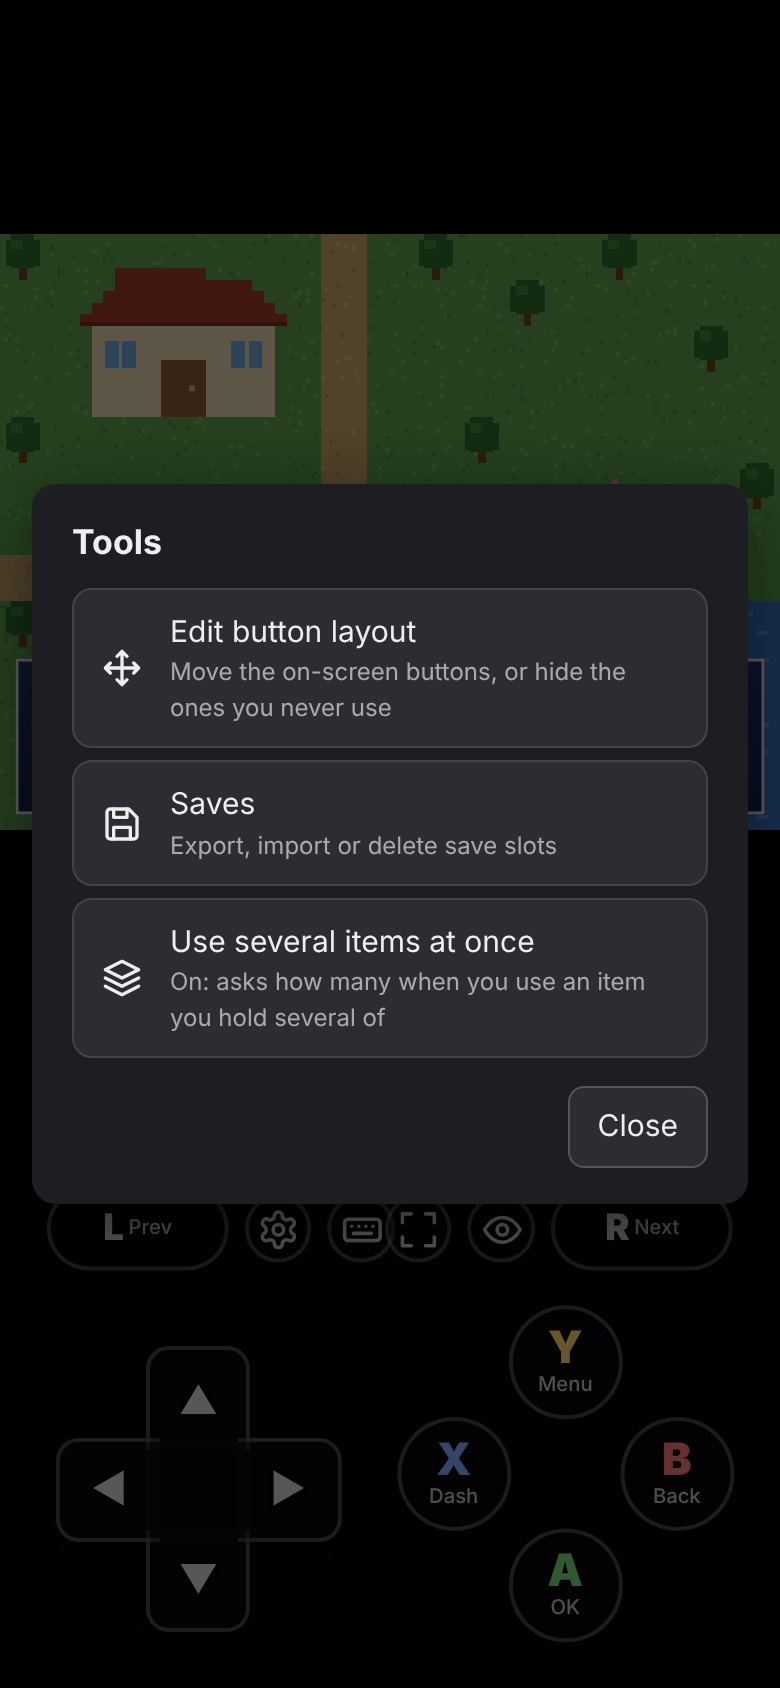
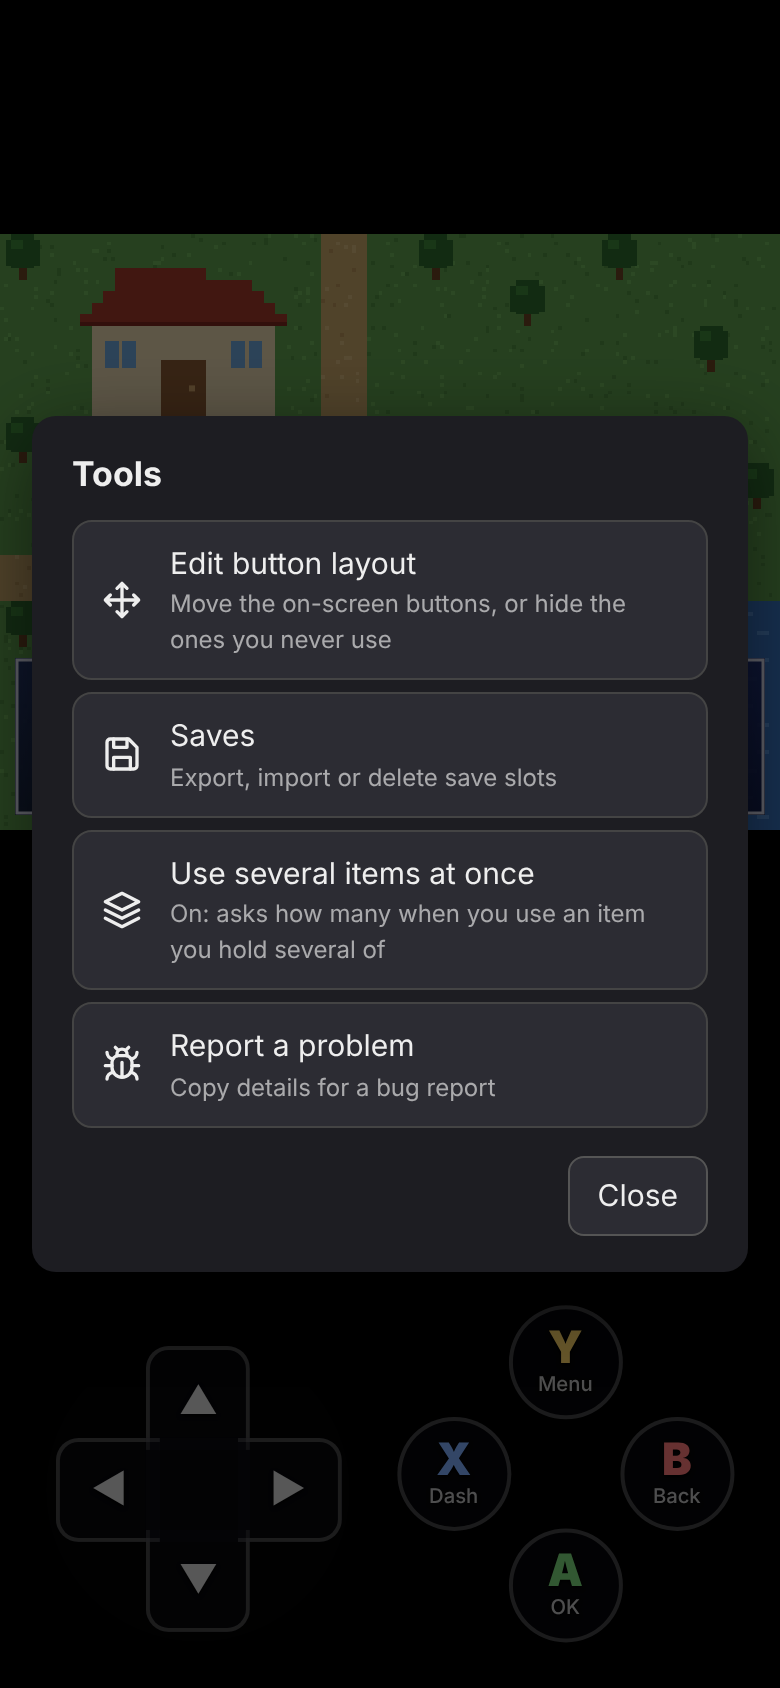
feat(runtime): add an in-game problem report with audio diagnostics (#27)

diff --git a/runtime/RWK_Report.js b/runtime/RWK_Report.js
@@ -1,0 +1,216 @@
+//=============================================================================
+// RWK_Report.js - rpgmaker-web-toolkit
+// Required Notice: Copyright 2026 Trương Tuấn Anh (https://github.com/Kokoroou)
+// License: PolyForm Noncommercial 1.0.0 with the Game Creators permission,
+// https://github.com/Kokoroou/rpgmaker-web-toolkit/blob/main/LICENSE
+// Problem report: keeps the latest errors and the audio files that failed to
+// load, and lets players copy a report (browser, audio state, errors with the
+// plugin they most likely came from) from ⚙ Tools or the engine's error screen.
+//=============================================================================
+/*:
+ * @target MZ MV
+ * @plugindesc [rpgmaker-web-toolkit] Problem report and audio diagnostics. Requires RWK_Core.
+ * @author rpgmaker-web-toolkit
+ */
+
+(() => {
+  "use strict";
+
+  const RWK = window.RWK;
+  if (!RWK) return;
+
+  const MAX_ERRORS = 10;
+  const MAX_BUFFERS = 100;
+  const MAX_STACK_LINES = 6;
+
+  //---------------------------------------------------------------------------
+  // Errors: uncaught ones, and the ones the engine catches to show its error
+  // screen (SceneManager.catchException never reaches window.onerror).
+  //---------------------------------------------------------------------------
+
+  const errors = [];
+  let toldPlayer = false;
+
+  function record(error, source) {
+    // MZ throws ["LoadError", url, retry] for files that fail to load.
+    if (Array.isArray(error) && error[0] === "LoadError") error = { name: "LoadError", message: String(error[1]) };
+    const name = (error && error.name) || "Error";
+    const message = error && error.message !== undefined ? String(error.message) : String(error);
+    const last = errors[errors.length - 1];
+    // The same error often arrives twice (engine + window handler).
+    if (last && last.message === message && Date.now() - last.time < 1000) {
+      if (!last.stack && error && error.stack) last.stack = String(error.stack);
+      return;
+    }
+    errors.push({ time: Date.now(), source, name, message, stack: error && error.stack ? String(error.stack) : "" });
+    if (errors.length > MAX_ERRORS) errors.shift();
+  }
+
+  window.addEventListener("error", (e) => {
+    // Failed <img>/<script> loads bubble here with no message; the engine reports those itself.
+    if (!e.message && !e.error) return;
+    record(e.error || { name: "Error", message: e.message, stack: e.filename ? `at ${e.filename}:${e.lineno}:${e.colno}` : "" }, "window");
+    if (!toldPlayer) {
+      toldPlayer = true;
+      RWK.toast("Something went wrong. ⚙ Tools → Report a problem copies the details.", "warn", 6000);
+    }
+  });
+  window.addEventListener("unhandledrejection", (e) => record(e.reason, "promise"));
+
+  const _catchException = SceneManager.catchException;
+  SceneManager.catchException = function (e) {
+    record(e, "engine");
+    return _catchException.apply(this, arguments);
+  };
+
+  // Which plugin an error most likely came from: the first plugin file in its stack.
+  function guessPlugin(stack) {
+    const m = /js\/plugins\/([^/?#:)]+)\.js/.exec(stack || "");
+    if (!m) return "";
+    const name = decodeURIComponent(m[1]);
+    return name.startsWith("RWK_") ? `${name} (rpgmaker-web-toolkit)` : name;
+  }
+
+  //---------------------------------------------------------------------------
+  // Audio: which format the engine asks for, whether WebAudio is unlocked,
+  // and which files failed to load (WebAudio#isError in both engines).
+  //---------------------------------------------------------------------------
+
+  const buffers = [];
+  const _createBuffer = AudioManager.createBuffer;
+  AudioManager.createBuffer = function (folder, name) {
+    const buffer = _createBuffer.apply(this, arguments);
+    if (buffer) {
+      buffers.push({ buffer, file: `audio/${folder}/${name}` });
+      if (buffers.length > MAX_BUFFERS) buffers.shift();
+    }
+    return buffer;
+  };
+
+  function audioLines() {
+    const lines = [];
+    const call = (fn) => {
+      try {
+        return fn();
+      } catch (e) {
+        return "?";
+      }
+    };
+    lines.push(`  Format: ${call(() => AudioManager.audioFileExt())}`);
+    // MV checks the browser; MZ decodes Ogg itself.
+    if (typeof WebAudio.canPlayOgg === "function") {
+      lines.push(`  Browser plays Ogg: ${call(() => (WebAudio.canPlayOgg() ? "yes" : "no"))}, ` +
+        `M4A: ${call(() => (WebAudio.canPlayM4a() ? "yes" : "no"))}`);
+    }
+    const context = WebAudio._context;
+    lines.push(`  WebAudio: ${context ? context.state : "not available"}`);
+    const failed = [...new Set(buffers.filter((b) => call(() => b.buffer.isError()) === true).map((b) => b.file))];
+    lines.push(`  Failed to load: ${failed.length ? "" : "none"}`);
+    for (const file of failed.slice(-10)) lines.push(`    ${file}`);
+    return lines;
+  }
+
+  //---------------------------------------------------------------------------
+  // The report. No email or save data: players paste it in public places.
+  //---------------------------------------------------------------------------
+
+  function report() {
+    const config = RWK.config;
+    const lines = [
+      "rpgmaker-web-toolkit problem report",
+      `Toolkit: ${config.version || "?"} · Engine: ${RWK.engine} · Game: ${config.gameId || "?"}`,
+      `Page: ${location.origin}${location.pathname}`,
+      `Browser: ${navigator.userAgent}`,
+      `Screen: ${window.innerWidth}x${window.innerHeight} @${window.devicePixelRatio || 1}x`,
+      `Time: ${new Date().toISOString()}`,
+      "",
+      "Audio",
+      ...audioLines(),
+      "",
+      `Errors (${errors.length ? "latest last" : "none"})`,
+    ];
+    for (const e of errors) {
+      lines.push(`  [${new Date(e.time).toISOString().slice(11, 19)}] ${e.name}: ${e.message} (${e.source})`);
+      const plugin = guessPlugin(e.stack);
+      if (plugin) lines.push(`    Plugin: ${plugin}`);
+      const stack = e.stack.split("\n").map((l) => l.trim()).filter((l) => l.startsWith("at ") || l.includes("@"));
+      for (const l of stack.slice(0, MAX_STACK_LINES)) lines.push(`    ${l}`);
+    }
+    return lines.join("\n");
+  }
+
+  async function copy(text, textarea) {
+    try {
+      await navigator.clipboard.writeText(text);
+      RWK.toast("Report copied.");
+    } catch (e) {
+      // No clipboard access (an old browser or an insecure page): select it for a manual copy.
+      textarea.focus();
+      textarea.select();
+      RWK.toast("Select all and copy the text.", "warn");
+    }
+  }
+
+  const reportStyle = document.createElement("style");
+  reportStyle.textContent = `
+.rwk-report{width:100%;height:min(45vh,320px);box-sizing:border-box;margin:0 0 14px;padding:8px;
+  border-radius:8px;border:1px solid #444;background:#111;color:#ddd;font:11px/1.4 ui-monospace,monospace;resize:none}
+.rwk-error-copy{margin-top:10px;font:13px system-ui,sans-serif;padding:6px 12px;border-radius:8px;
+  border:1px solid #888;background:#2c2c33;color:#eee;cursor:pointer}
+`;
+  document.head.appendChild(reportStyle);
+
+  function openReport() {
+    const text = report();
+    const overlay = document.createElement("div");
+    overlay.className = "rwk-modal";
+    const box = document.createElement("div");
+    box.className = "rwk-modal-box";
+    const h = document.createElement("h2");
+    h.textContent = "Report a problem";
+    const p = document.createElement("p");
+    p.textContent = "Copy this and send it with what you were doing. It has no email or save data.";
+    const textarea = document.createElement("textarea");
+    textarea.className = "rwk-report";
+    textarea.readOnly = true;
+    textarea.value = text;
+    const actions = document.createElement("div");
+    actions.className = "rwk-modal-actions";
+    const copyBtn = document.createElement("button");
+    copyBtn.className = "primary";
+    copyBtn.textContent = "Copy report";
+    copyBtn.addEventListener("click", () => copy(text, textarea));
+    const closeBtn = document.createElement("button");
+    closeBtn.textContent = "Close";
+    closeBtn.addEventListener("click", () => overlay.remove());
+    actions.append(closeBtn, copyBtn);
+    box.append(h, p, textarea, actions);
+    overlay.appendChild(box);
+    overlay.addEventListener("click", (e) => e.target === overlay && overlay.remove());
+    RWK.shield(overlay);
+    document.body.appendChild(overlay);
+  }
+
+  // The engine's error screen gets a copy button next to RWK_Core's note.
+  const _printError = Graphics.printError;
+  Graphics.printError = function () {
+    _printError.apply(this, arguments);
+    const printer = this._errorPrinter;
+    if (!printer || printer.querySelector(".rwk-error-copy")) return;
+    const btn = document.createElement("button");
+    btn.className = "rwk-error-copy";
+    btn.textContent = "Report a problem";
+    btn.addEventListener("click", openReport);
+    RWK.shield(btn);
+    printer.appendChild(btn);
+  };
+
+  RWK.tools.add({
+    icon: RWK.icons.bug,
+    label: "Report a problem",
+    detail: () => (errors.length ? `${errors.length} error(s) so far` : "Copy details for a bug report"),
+    onSelect: openReport,
+  });
+
+  RWK.report = { text: report, open: openReport };
+})();

diff --git a/test/cli.test.js b/test/cli.test.js
@@ -215,3 +215,16 @@ test("MV phone media: Ogg / WebM without an .m4a / .mp4 twin", () => {
   assert.deepEqual(runtimeConfig("MV").media, { oggOnly: true, webmOnly: false });
   assert.equal(runtimeConfig("MZ").media, undefined, "MZ decodes Ogg itself");
 });
+
+test("web build: runtime plugins and the toolkit version for the problem report", () => {
+  const root = tmp();
+  fs.mkdirSync(path.join(root, "js"));
+  fs.writeFileSync(path.join(root, "js", "plugins.js"), "var $plugins = [];\n");
+  fs.writeFileSync(path.join(root, "index.html"), "<html><head></head><body></body></html>");
+  const out = generatedFiles({ root, engine: "MZ", title: "G" }, { slug: "g", sync: {} });
+  assert.ok(out.has("js/plugins/RWK_Report.js"));
+  const js = out.get("js/plugins.js");
+  const core = JSON.parse(/\$plugins\.push\((\{"name":"RWK_Core".*\})\);/.exec(js)[1]);
+  const pkg = JSON.parse(fs.readFileSync(new URL("../package.json", import.meta.url), "utf8"));
+  assert.equal(JSON.parse(core.parameters.config).version, pkg.version);
+});

diff --git a/cli/lib/stage.js b/cli/lib/stage.js
@@ -9,7 +9,10 @@ import { TOOLKIT_ROOT } from "./config.js";
 import { mobileOnlyMissing } from "./game.js";
 import { isIndexable } from "./policy.js";
 
-export const RUNTIME_PLUGINS = ["RWK_Core", "RWK_SaveSync", "RWK_MobileControls", "RWK_SaveTools", "RWK_ItemBatch"];
+export const RUNTIME_PLUGINS = ["RWK_Core", "RWK_SaveSync", "RWK_MobileControls", "RWK_SaveTools", "RWK_ItemBatch", "RWK_Report"];
+
+// Shown in the in-game problem report (RWK_Report).
+const TOOLKIT_VERSION = JSON.parse(fs.readFileSync(path.join(TOOLKIT_ROOT, "package.json"), "utf8")).version;
 
 // files: from collectFiles(); generated: Map<rel, string|Buffer>
 // -> { linked, copied, unchanged, removed }
@@ -79,6 +82,7 @@ function statOrNull(p) {
 export function generatedFiles(game, gameConfig, files = []) {
   const out = new Map();
   const runtimeConfig = {
+    version: TOOLKIT_VERSION,
     gameId: gameConfig.slug,
     engine: game.engine,
     sync: { enabled: !!(gameConfig.sync && gameConfig.sync.enabled) },

diff --git a/site/screenshots/simulator.html b/site/screenshots/simulator.html
@@ -94,7 +94,9 @@
     isDatabaseLoaded: () => true,
     createGameObjects() {},
   };
-  window.SceneManager = { _scene: new Scene_Map() };
+  window.SceneManager = { _scene: new Scene_Map(), catchException() {} };
+  window.AudioManager = { createBuffer() {}, audioFileExt: () => ".ogg" };
+  window.WebAudio = { _context: null };
   window.StorageManager = {
     isLocalMode: () => false,
     forageKey: (name) => "rmmzsave.demo." + name,
@@ -130,6 +132,7 @@
 <script src="../../runtime/RWK_MobileControls.js"></script>
 <script src="../../runtime/RWK_SaveTools.js"></script>
 <script src="../../runtime/RWK_ItemBatch.js"></script>
+<script src="../../runtime/RWK_Report.js"></script>
 <script>
   //--- The "game": a hand-drawn map or item menu on the canvas
   const canvas = document.createElement("canvas");

diff --git a/runtime/RWK_Core.js b/runtime/RWK_Core.js
@@ -271,6 +271,11 @@
     reset: svg('<path d="M3 12a9 9 0 1 0 3-6.7L3 8"/><path d="M3 3v5h5"/>'),
     save: svg('<path d="M5 3h11l5 5v11a2 2 0 0 1-2 2H5a2 2 0 0 1-2-2V5a2 2 0 0 1 2-2z"/><path d="M7 3v5h8V3M7 21v-7h10v7"/>'),
     items: svg('<path d="M12 2l10 5-10 5L2 7z"/><path d="M2 12l10 5 10-5M2 17l10 5 10-5"/>'),
+    bug: svg(
+      '<path d="M8 2l1.9 1.9M14.1 3.9L16 2M9 7.1v-1a3 3 0 1 1 6 0v1"/>' +
+        '<path d="M12 20c-3.3 0-6-2.7-6-6v-3a4 4 0 0 1 4-4h4a4 4 0 0 1 4 4v3c0 3.3-2.7 6-6 6zM12 20v-9"/>' +
+        '<path d="M6.5 9C4.6 8.8 3 7.1 3 5M6 13H2M3 21c0-2.1 1.7-3.9 3.8-4M21 5c0 2.1-1.6 3.8-3.5 4M22 13h-4M17.2 17c2.1.1 3.8 1.9 3.8 4"/>'
+    ),
   };
 
   const toolList = [];

diff --git a/site/play/index.md b/site/play/index.md
@@ -35,6 +35,12 @@ Or tap ⛶ in the game's toolbar.
 |---|---|
 | Phone or tablet | The on-screen gamepad: [Touch controls](/play/controls) |
 | PC | Keyboard or a controller, as in the desktop game |
-| ⚙ Tools | [Move buttons](/play/controls#move-or-hide-buttons), [manage save files](/play/save-files), [use several items at once](/play/items) |
+| ⚙ Tools | [Move buttons](/play/controls#move-or-hide-buttons), [manage save files](/play/save-files), [use several items at once](/play/items), [report a problem](#report-a-problem) |
 
 On a PC, ⚙ is a faint button in the top-left corner. Tools the person who set up the game turned off are missing.
+
+## Report a problem
+
+⚙ → **Report a problem** (also on the game's error screen) shows the latest errors, the audio state and the sound files that failed to load. **Copy report** and send it to whoever set up the game, with what you were doing. It has no email or save data.
+
+Check first whether the problem also happens in the desktop version of the game: only then is it the game's own bug.

diff --git a/site/reference/how-it-works.md b/site/reference/how-it-works.md
@@ -8,6 +8,7 @@ run.ps1 ─► cli/            Node CLI: analyzes the game, builds a temporary w
              RWK_MobileControls  on-screen buttons, driven through Input._currentState
              RWK_SaveTools       save export / import / delete (desktop save file format)
              RWK_ItemBatch       use several items at once (MZ / MV adapter for the common event queue)
+             RWK_Report          problem report: latest errors, audio state, files that failed to load
            worker/         One Worker shared by every game
              index.js            static files + large files from R2 (with Range) + /api
              auth.js             verifies Cloudflare Access logins (JWT)
